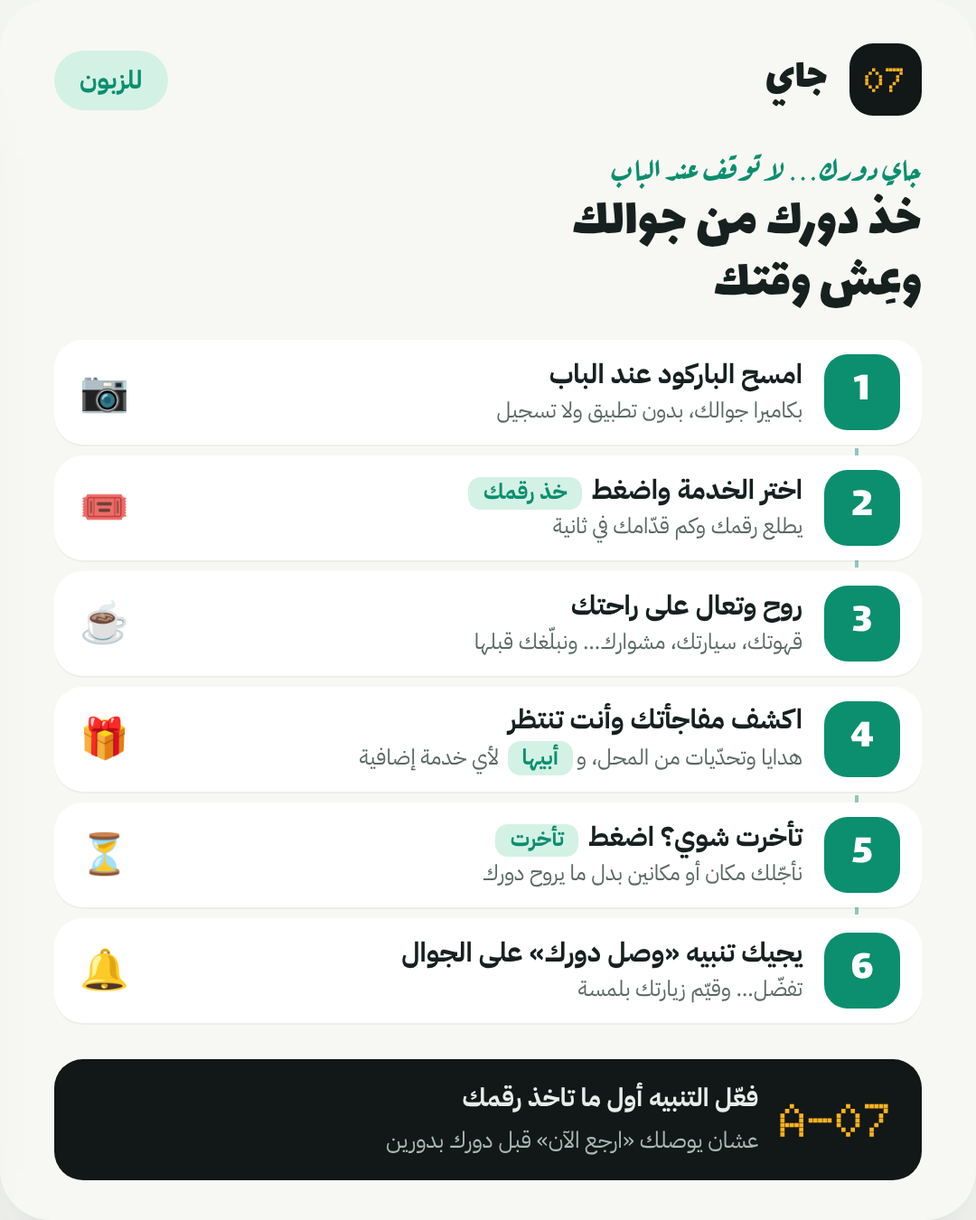
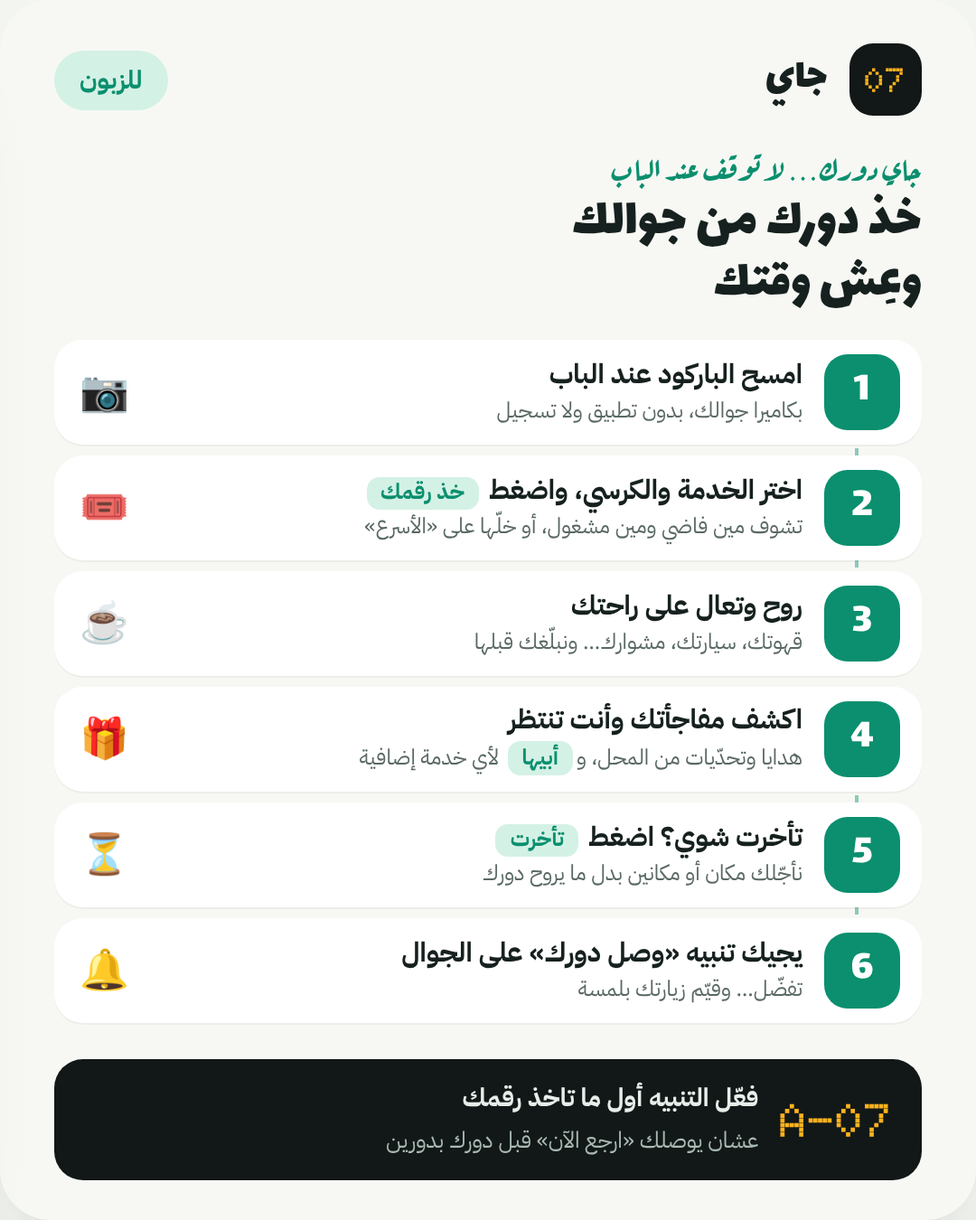
Marketing: add the chairs board to the intro site, infographics, competitors and readiness
Claude-Session: https://claude.ai/code/session_011AnjtrARLh3VczrdQUDmDr

Changed region(s): [[0.3667, 0.3733, 0.825, 0.4667]]

diff --git a/site/infographics.html b/site/infographics.html
@@ -59,7 +59,7 @@ body{margin:0;background:var(--paper);color:var(--ink);font-family:"IBM Plex San
       <div class="head"><span class="hand">جاي دورك… لا توقف عند الباب</span><h2>خذ دورك من جوالك<br>وعِش وقتك</h2></div>
       <ol class="steps">
         <li class="st"><span class="n">1</span><div><b>امسح الباركود عند الباب</b><span>بكاميرا جوالك، بدون تطبيق ولا تسجيل</span></div><span class="ic" aria-hidden="true">📷</span></li>
-        <li class="st"><span class="n">2</span><div><b>اختر الخدمة واضغط <i class="chip">خذ رقمك</i></b><span>يطلع رقمك وكم قدّامك في ثانية</span></div><span class="ic" aria-hidden="true">🎟</span></li>
+        <li class="st"><span class="n">2</span><div><b>اختر الخدمة والكرسي، واضغط <i class="chip">خذ رقمك</i></b><span>تشوف مين فاضي ومين مشغول، أو خلّها على «الأسرع»</span></div><span class="ic" aria-hidden="true">🎟</span></li>
         <li class="st"><span class="n">3</span><div><b>روح وتعال على راحتك</b><span>قهوتك، سيارتك، مشوارك… ونبلّغك قبلها</span></div><span class="ic" aria-hidden="true">☕</span></li>
         <li class="st"><span class="n">4</span><div><b>اكشف مفاجأتك وأنت تنتظر</b><span>هدايا وتحدّيات من المحل، و<i class="chip">أبيها</i> لأي خدمة إضافية</span></div><span class="ic" aria-hidden="true">🎁</span></li>
         <li class="st"><span class="n">5</span><div><b>تأخرت شوي؟ اضغط <i class="chip">تأخرت</i></b><span>نأجّلك مكان أو مكانين بدل ما يروح دورك</span></div><span class="ic" aria-hidden="true">⏳</span></li>
@@ -74,7 +74,7 @@ body{margin:0;background:var(--paper);color:var(--ink);font-family:"IBM Plex San
       <ol class="steps">
         <li class="st"><span class="n">1</span><div><b>افتح رابط الربط مرة وحدة</b><span>يرسله لك صاحب المحل، وينحفظ في جهازك</span></div><span class="ic" aria-hidden="true">🔗</span></li>
         <li class="st"><span class="n">2</span><div><b>الشاشة تكلّمك بلغتك</b><span>عربي · English · اردو · বাংলা · Filipino</span></div><span class="ic" aria-hidden="true">🌐</span></li>
-        <li class="st"><span class="n">3</span><div><b>اضغط <i class="chip">نادِ التالي</i></b><span>يجي الزبون تنبيه «وصل دورك»، واللي قبله يخلص تلقائياً</span></div><span class="ic" aria-hidden="true">👆</span></li>
+        <li class="st"><span class="n">3</span><div><b>اضغط <i class="chip">نادِ التالي</i></b><span>ينادي زبائن كرسيك أولاً، ويجيهم تنبيه «وصل دورك»</span></div><span class="ic" aria-hidden="true">👆</span></li>
         <li class="st"><span class="n">4</span><div><b>زبون ما حضر؟ <i class="chip">ما حضر</i></b><span>أول مرة يتأخر شوي، والثانية يطلع من الطابور</span></div><span class="ic" aria-hidden="true">🚶</span></li>
         <li class="st"><span class="n">5</span><div><b>زبون بدون جوال؟ <i class="chip">إضافة زبون</i></b><span>يطلع الرقم كبير على شاشتك، قوله له</span></div><span class="ic" aria-hidden="true">➕</span></li>
         <li class="st"><span class="n">6</span><div><b>شارة <i class="chip">✋ يبي</i> بجانب الرقم</b><span>الزبون طلب خدمة إضافية، جهّزها قبل ما يجي</span></div><span class="ic" aria-hidden="true">✋</span></li>
@@ -88,7 +88,7 @@ body{margin:0;background:var(--paper);color:var(--ink);font-family:"IBM Plex San
       <ol class="steps">
         <li class="st"><span class="n">1</span><div><b>سجّل محلك وخدماتك</b><span>الاسم، والدوام، والخدمات… وخلاص</span></div><span class="ic" aria-hidden="true">📝</span></li>
         <li class="st"><span class="n">2</span><div><b>اطبع ملصق الباركود وعلّقه</b><span>عند الباب أو الكاشير، باسم محلك جاهز</span></div><span class="ic" aria-hidden="true">🖨</span></li>
-        <li class="st"><span class="n">3</span><div><b>اربط جوال الموظف</b><span>من <i class="chip">الإعدادات</i> أرسل له رابط الربط</span></div><span class="ic" aria-hidden="true">📱</span></li>
+        <li class="st"><span class="n">3</span><div><b>أضف الكراسي واربط كل جوال بكرسيه</b><span>من <i class="chip">الإعدادات</i>، والزبون يختار حلاقه بنفسه</span></div><span class="ic" aria-hidden="true">📱</span></li>
         <li class="st"><span class="n">4</span><div><b>تابع <i class="chip">نبضي</i> مباشرة</b><span>كم في الطابور، ومين متأخر، وإنذار الزحمة</span></div><span class="ic" aria-hidden="true">💓</span></li>
         <li class="st"><span class="n">5</span><div><b>أضف عروضك وتحدّياتك</b><span>و<i class="chip">اكتب لي بإحساس</i> يكتب وصف خدماتك</span></div><span class="ic" aria-hidden="true">✨</span></li>
         <li class="st"><span class="n">6</span><div><b>اقرأ ملخص المساء</b><span>زبائن اليوم، والانتظار، ووقت ذروتك، و<i class="chip">سجل الطابور</i></span></div><span class="ic" aria-hidden="true">🌙</span></li>

diff --git a/site/dawri.html b/site/dawri.html
@@ -479,6 +479,7 @@ footer .wrap{display:flex;flex-wrap:wrap;gap:12px;justify-content:space-between;
       <h2 style="font-size:clamp(30px,4.6vw,46px);margin-top:10px">ما عاد فيه «أروح وأشوف حظي»</h2>
       <p style="color:var(--muted);margin-top:14px;font-size:18px">لكل محل صفحة حيّة تقول الحقيقة بلطف: هادي الحين، فيه حركة خفيفة، أو زحمة. يشوفها زبونك من بيته قبل ما يلبس شماغه أو عباتها، ويقرر وهو مرتاح.</p>
       <ul class="points">
+        <li><i aria-hidden="true">💈</i><div><b>«الكراسي الحين»: اختر عند مين</b><span>يشوف زبونك كل كرسي أو مختصة: فاضي الحين، أو مشغول ويخدم رقم كم، وكم ينتظره بالضبط. يحجز عند حلاقه المفضّل، أو يخليها على «أي واحد · الأسرع».</span></div></li>
         <li><i aria-hidden="true">🔔</i><div><b>«نبّهني لما تهدأ»</b><span>المحل زحمة؟ لمسة وحدة، وأول ما يخف الطابور يوصله تنبيه. ما نطلب رقمه ولا اسمه، والتنبيه ينلغي من نفسه بعد ٤ ساعات.</span></div></li>
         <li><i aria-hidden="true">🌿</i><div><b>«أهدأ وقت باقي اليوم»</b><span>نعرف من أيامك السابقة متى يهدأ محلك، ونقترحه على زبونك بدل ما يجي وقت الذروة ويمشي.</span></div></li>
         <li><i aria-hidden="true">🔗</i><div><b>رابط واحد في كل مكان</b><span>ضعه في إنستقرام وسناب وقوقل ماب وواتساب. كل من يفتحه يشوف الزحمة الحين، ويقدر ياخذ دوره من مكانه.</span></div></li>
@@ -647,7 +648,7 @@ footer .wrap{display:flex;flex-wrap:wrap;gap:12px;justify-content:space-between;
         <h3>الأساسية</h3>
         <p class="for">لمحل يبي ينهي فوضى الطابور</p>
         <div class="price"><b>199</b><span>ريال / شهرياً</span></div>
-        <ul><li>صفحة محلك الحيّة و«نبّهني لما تهدأ»</li><li>الطابور بأوضاعه الثلاثة</li><li>تنبيه «وصل دورك» و«تأخرت شوي»</li><li>شاشة الموظف بخمس لغات</li><li>ملخص المساء</li><li>حاسبة الزبائن الضائعين</li></ul>
+        <ul><li>صفحة محلك الحيّة و«نبّهني لما تهدأ»</li><li>لوحة الكراسي واختيار الحلاق أو المختصة</li><li>الطابور بأوضاعه الثلاثة</li><li>تنبيه «وصل دورك» و«تأخرت شوي»</li><li>شاشة الموظف بخمس لغات</li><li>ملخص المساء</li><li>حاسبة الزبائن الضائعين</li></ul>
         <a class="btn btn-ghost" href="#contact">ابدأ بالأساسية</a>
       </article>
       <article class="plan feat reveal">
@@ -685,6 +686,7 @@ footer .wrap{display:flex;flex-wrap:wrap;gap:12px;justify-content:space-between;
       <details><summary>زبائني كبار في السن وما يعرفون للباركود، وش الحل؟</summary><p>الموظف يقدر يضيفه للطابور من شاشته بلمسة، ويطلع رقمه على شاشة الموظف بخط كبير يقدر يوريه له، أو يكتبه له على ورقة.</p></details>
       <details><summary>هل لازم أغيّر نظام الكاشير أو الفواتير؟</summary><p>لا. «جاي» يشتغل جنب نظامك الحالي بدون ما يلمسه. الكاشير يبقى مثل ما هو.</p></details>
       <details><summary>وش يصير إذا الزبون ما وصله الإشعار؟</summary><p>التذكرة على جواله تتحدث لحظياً وتعرض «وصل دورك» بشكل واضح، والموظف يشوف مين وصله التنبيه ومين لا، ويقدر يأجّله بدل ما يلغيه.</p></details>
+      <details><summary>الزبون يبي حلاق معيّن، أقدر؟</summary><p>أكيد. صفحة المحل فيها «الكراسي الحين»: كل كرسي أو مختصة بحالته (فاضي، أو مشغول ويخدم رقم كم)، وعدد اللي ينتظرونه والوقت التقريبي. الزبون يضغط «احجز هنا» عند اللي يبيه، وشاشة الحلاق تنادي زبائنه هو. وفي المشاغل النسائية تظهر «المختصات الحين»، وكل مختصة بخدماتها فقط.</p></details>
       <details><summary>وش يعني «نبّهني لما تهدأ»؟</summary><p>إذا شاف الزبون إن المحل زحمة، يضغط زر واحد ويكمّل يومه. أول ما يخف الطابور للعدد اللي اختاره، يوصله تنبيه على جواله. ما نطلب رقمه ولا اسمه، والتنبيه مرة وحدة وينلغي من نفسه بعد ٤ ساعات.</p></details>
       <details><summary>كم ياخذ وقت التركيب؟</summary><p>حوالي عشر دقائق: تكتب اسم محلك وخدماتك، وتطبع ملصق الباركود، وتفتح شاشة الموظف على أي جوال.</p></details>
       <details><summary>هل التحدّيات والهدايا تكلّفني خسارة؟</summary><p>أنت تحدد المكافأة وعدد الأماكن ووقتها. والفكرة إنها تجيب زبون في وقت هدوئك أو ترجّع زبون غايب، يعني تكسبك وقت كان ضايع.</p></details>

diff --git a/site/index.html b/site/index.html
@@ -487,6 +487,7 @@ footer .wrap{display:flex;flex-wrap:wrap;gap:12px;justify-content:space-between;
       <h2 style="font-size:clamp(30px,4.6vw,46px);margin-top:10px">ما عاد فيه «أروح وأشوف حظي»</h2>
       <p style="color:var(--muted);margin-top:14px;font-size:18px">لكل محل صفحة حيّة تقول الحقيقة بلطف: هادي الحين، فيه حركة خفيفة، أو زحمة. يشوفها زبونك من بيته قبل ما يلبس شماغه أو عباتها، ويقرر وهو مرتاح.</p>
       <ul class="points">
+        <li><i aria-hidden="true">💈</i><div><b>«الكراسي الحين»: اختر عند مين</b><span>يشوف زبونك كل كرسي أو مختصة: فاضي الحين، أو مشغول ويخدم رقم كم، وكم ينتظره بالضبط. يحجز عند حلاقه المفضّل، أو يخليها على «أي واحد · الأسرع».</span></div></li>
         <li><i aria-hidden="true">🔔</i><div><b>«نبّهني لما تهدأ»</b><span>المحل زحمة؟ لمسة وحدة، وأول ما يخف الطابور يوصله تنبيه. ما نطلب رقمه ولا اسمه، والتنبيه ينلغي من نفسه بعد ٤ ساعات.</span></div></li>
         <li><i aria-hidden="true">🌿</i><div><b>«أهدأ وقت باقي اليوم»</b><span>نعرف من أيامك السابقة متى يهدأ محلك، ونقترحه على زبونك بدل ما يجي وقت الذروة ويمشي.</span></div></li>
         <li><i aria-hidden="true">🔗</i><div><b>رابط واحد في كل مكان</b><span>ضعه في إنستقرام وسناب وقوقل ماب وواتساب. كل من يفتحه يشوف الزحمة الحين، ويقدر ياخذ دوره من مكانه.</span></div></li>
@@ -655,7 +656,7 @@ footer .wrap{display:flex;flex-wrap:wrap;gap:12px;justify-content:space-between;
         <h3>الأساسية</h3>
         <p class="for">لمحل يبي ينهي فوضى الطابور</p>
         <div class="price"><b>199</b><span>ريال / شهرياً</span></div>
-        <ul><li>صفحة محلك الحيّة و«نبّهني لما تهدأ»</li><li>الطابور بأوضاعه الثلاثة</li><li>تنبيه «وصل دورك» و«تأخرت شوي»</li><li>شاشة الموظف بخمس لغات</li><li>ملخص المساء</li><li>حاسبة الزبائن الضائعين</li></ul>
+        <ul><li>صفحة محلك الحيّة و«نبّهني لما تهدأ»</li><li>لوحة الكراسي واختيار الحلاق أو المختصة</li><li>الطابور بأوضاعه الثلاثة</li><li>تنبيه «وصل دورك» و«تأخرت شوي»</li><li>شاشة الموظف بخمس لغات</li><li>ملخص المساء</li><li>حاسبة الزبائن الضائعين</li></ul>
         <a class="btn btn-ghost" href="#contact">ابدأ بالأساسية</a>
       </article>
       <article class="plan feat reveal">
@@ -693,6 +694,7 @@ footer .wrap{display:flex;flex-wrap:wrap;gap:12px;justify-content:space-between;
       <details><summary>زبائني كبار في السن وما يعرفون للباركود، وش الحل؟</summary><p>الموظف يقدر يضيفه للطابور من شاشته بلمسة، ويطلع رقمه على شاشة الموظف بخط كبير يقدر يوريه له، أو يكتبه له على ورقة.</p></details>
       <details><summary>هل لازم أغيّر نظام الكاشير أو الفواتير؟</summary><p>لا. «جاي» يشتغل جنب نظامك الحالي بدون ما يلمسه. الكاشير يبقى مثل ما هو.</p></details>
       <details><summary>وش يصير إذا الزبون ما وصله الإشعار؟</summary><p>التذكرة على جواله تتحدث لحظياً وتعرض «وصل دورك» بشكل واضح، والموظف يشوف مين وصله التنبيه ومين لا، ويقدر يأجّله بدل ما يلغيه.</p></details>
+      <details><summary>الزبون يبي حلاق معيّن، أقدر؟</summary><p>أكيد. صفحة المحل فيها «الكراسي الحين»: كل كرسي أو مختصة بحالته (فاضي، أو مشغول ويخدم رقم كم)، وعدد اللي ينتظرونه والوقت التقريبي. الزبون يضغط «احجز هنا» عند اللي يبيه، وشاشة الحلاق تنادي زبائنه هو. وفي المشاغل النسائية تظهر «المختصات الحين»، وكل مختصة بخدماتها فقط.</p></details>
       <details><summary>وش يعني «نبّهني لما تهدأ»؟</summary><p>إذا شاف الزبون إن المحل زحمة، يضغط زر واحد ويكمّل يومه. أول ما يخف الطابور للعدد اللي اختاره، يوصله تنبيه على جواله. ما نطلب رقمه ولا اسمه، والتنبيه مرة وحدة وينلغي من نفسه بعد ٤ ساعات.</p></details>
       <details><summary>كم ياخذ وقت التركيب؟</summary><p>حوالي عشر دقائق: تكتب اسم محلك وخدماتك، وتطبع ملصق الباركود، وتفتح شاشة الموظف على أي جوال.</p></details>
       <details><summary>هل التحدّيات والهدايا تكلّفني خسارة؟</summary><p>أنت تحدد المكافأة وعدد الأماكن ووقتها. والفكرة إنها تجيب زبون في وقت هدوئك أو ترجّع زبون غايب، يعني تكسبك وقت كان ضايع.</p></details>

diff --git a/site/readiness.html b/site/readiness.html
@@ -97,7 +97,7 @@ tr:last-child td{border-bottom:0}
       <tr><td>٣</td><td>إشعارات متعددة</td><td><span class="t plan">خطة</span></td><td>واتساب ورسائل نصية كإضافة مدفوعة (البند ٢)</td></tr>
       <tr><td>٤</td><td>حماية الطابور وسجل التعديلات</td><td><span class="t ok">موجود</span> <span class="t new">نُفّذ</span></td><td>حدود الحجز وسجل كامل لكل تعديل</td></tr>
       <tr><td>٥</td><td>تخصيص الأنشطة</td><td><span class="t ok">موجود</span> <span class="t plan">قوالب</span></td><td>ثلاثة أوضاع، والقوالب الجاهزة قادمة</td></tr>
-      <tr><td>٦</td><td>توزيع العملاء على الموظفين</td><td><span class="t ok">موجود</span></td><td>«حلاقي المفضّل»، أو أول موظف يتفرّغ</td></tr>
+      <tr><td>٦</td><td>توزيع العملاء على الموظفين</td><td><span class="t ok">موجود</span> <span class="t new">نُفّذ</span></td><td>لوحة «الكراسي الحين»: حالة كل كرسي أو مختصة، وعدد المنتظرين لكل واحد، والحجز عند كرسي معيّن أو «الأسرع»، في كل الباقات</td></tr>
       <tr><td>٧</td><td>الطاقة الاستيعابية</td><td><span class="t ok">موجود</span> <span class="t new">نُفّذ</span></td><td>حد للحجز من الخارج، وإنذار للمالك عند الزحمة، والآن «اكتملت مواعيد اليوم»</td></tr>
       <tr><td>٨</td><td>ولاء مرن</td><td><span class="t ok">موجود</span></td><td>بطاقة زيارات بمكافأة يحددها المالك، وتحدّيات بأنواعها</td></tr>
       <tr><td>٩</td><td>إضافات أثناء الانتظار</td><td><span class="t ok">موجود</span></td><td>زر «أبيها» يظهر للموظف قبل وصول الدور. تحديث السعر الإجمالي في التذكرة: خطة</td></tr>

diff --git a/site/competitors.html b/site/competitors.html
@@ -120,6 +120,7 @@ tr:last-child td{border-bottom:0}
         <tr><td>حجز مواعيد مسبق</td><td class="us n">✕</td><td class="n">✕</td><td class="y">✓ (طاولات)</td><td class="y">✓</td></tr>
         <tr><td>ولاء ونقاط</td><td class="us y">✓</td><td class="y">✓</td><td class="n">✕</td><td class="n">جزئي</td></tr>
         <tr><td><b>عروض ومفاجآت وقت الانتظار</b></td><td class="us y">✓ فريد</td><td class="n">✕</td><td class="n">بار إعلان</td><td class="n">✕</td></tr>
+        <tr><td><b>اختيار الكرسي أو المختصة مع حالته المباشرة</b></td><td class="us y">✓ فريد</td><td class="n">✕</td><td class="n">✕</td><td class="n">توزيع داخلي</td></tr>
         <tr><td><b>تحدّيات زيارات بمكافأة</b></td><td class="us y">✓ فريد</td><td class="n">بطاقة ختم</td><td class="n">✕</td><td class="n">✕</td></tr>
         <tr><td><b>«أبيها»: إضافة خدمة يشوفها الموظف</b></td><td class="us y">✓ فريد</td><td class="n">✕</td><td class="n">طلب منيو</td><td class="n">✕</td></tr>
         <tr><td><b>شاشة الموظف بلغته (٥ لغات)</b></td><td class="us y">✓ فريد</td><td class="n">✕</td><td class="n">عربي وإنجليزي</td><td class="n">✕</td></tr>
